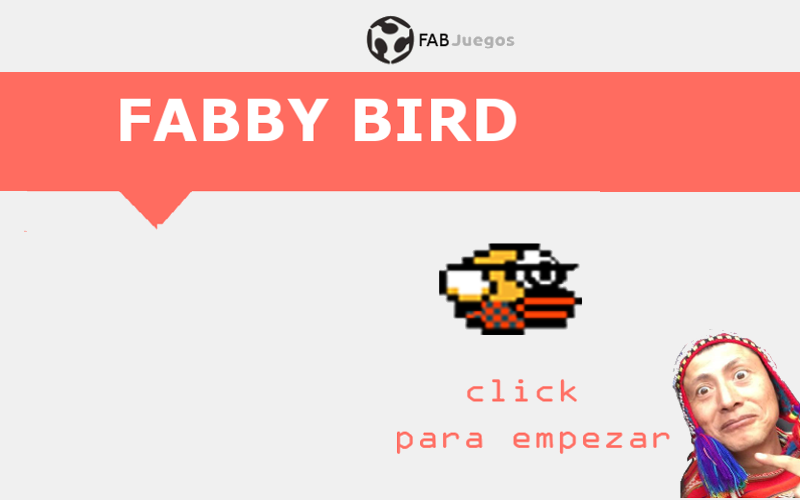
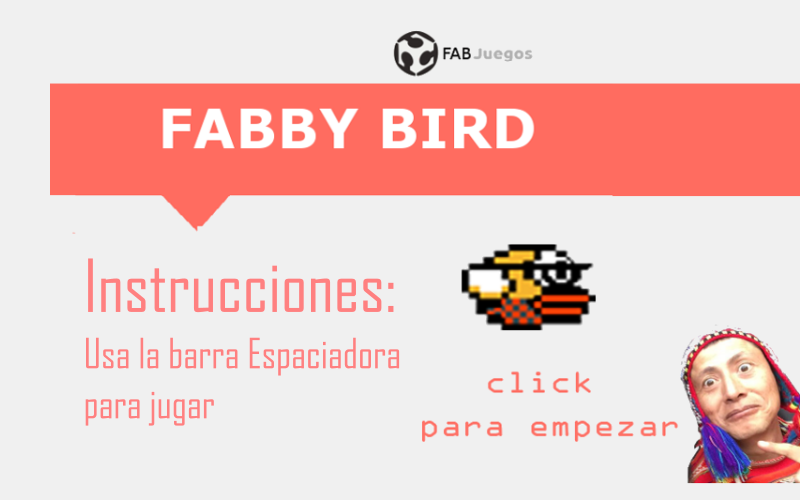
Segunda Version Flappy
En esta ocasión hemos agregado un par de vidas, las colisiones se mejoraron y se explica el juego que es por barras

diff --git a/aves.js b/aves.js
@@ -3,13 +3,29 @@ function Aves(){
     this.aleteo=-3;
     this.gravedad=0.3;
     this.fondo;
+    this.vida1;
+    this.vida2;
+    this.vida3;
+    this.dead1;
+    this.dead2;
+    this.dead3;
+    //Mejoras de la vida
+    this.vida=3;
+    
     this.crear=function(){
-        this.ave=createSprite(width/2,height/2);
-        this.ave.addAnimation("ave", "./imagenes/flappy0.png","./imagenes/flappy1.png","./imagenes/flappy2.png");
+        this.ave=createSprite(width/2,height/2,40,40);
+       this.ave.addAnimation("ave", "./imagenes/flappy0.png","./imagenes/flappy1.png","./imagenes/flappy2.png");
         this.fondo=loadImage("./imagenes/jungla.png");
+        this.vida1=loadImage("./imagenes/life1.png");
+        this.vida2=loadImage("./imagenes/life2.png");
+        this.vida3=loadImage("./imagenes/life3.png");
+        this.dead1=loadImage("./imagenes/dead1.png");
+        this.dead2=loadImage("./imagenes/dead2.png");
+        this.dead3=loadImage("./imagenes/dead3.png");
         this.ave.rotateToDirection=true;
        
-        this.ave.setCollider("circle",0,0,10);
+        this.ave.setCollider("circle",0,0,15);
+        //this.ave.debug=true;//podemos ver el collider
     }
 
     this.movimiento=function(){
@@ -21,14 +37,30 @@ function Aves(){
         camera.position.x=width/4+this.ave.position.x;
         camera.off();
         image(this.fondo, 0, 0, width, height);
+        if(this.vida>-24){image(this.vida1,10,10,this.vida1.width,this.vida1.height);}
+        else{image(this.dead1,10,10,this.dead1.width,this.dead1.height);}
+        if(this.vida>-48){image(this.vida2,50,10,this.vida2.width,this.vida2.height);}
+        else{image(this.dead2,50,10,this.dead2.width,this.dead2.height);}
+        if(this.vida>-72){image(this.vida3,90,10,this.vida3.width,this.vida3.height);}
+        else{image(this.dead3,90,10,this.dead3.width,this.dead3.height);}
+        
         camera.on();
     }
 
     this.muerte=function(pipe){
-        if(this.ave.position.y>height-5 || this.ave.overlap(pipe.tuboArray)){
-           juegoTerminado();
+        
+            if(this.ave.position.y>height-5){juegoTerminado();}
+            if(this.ave.overlap(pipe.tuboArray)){
+                this.vida--
+                
+               if(this.vida<-78){
+                    juegoTerminado();
+                }
+            }
+            //console.log(this.vida);
         }
-    }
+        
+    
 
 
 }

diff --git a/tuberias.js b/tuberias.js
@@ -9,26 +9,35 @@ function Tuberias(){
     }
 
     this.crearTubos=function(bird){
-        this.altura=random(10, 250);
-        //la imagen es de 130x770
-        this.alturaImagen=this.imagenTubo.height;
+       
         if(frameCount%60==0){
-            this.tubo=createSprite(bird.ave.position.x+width,this.alturaImagen-this.altura,10,this.altura);
+            this.altura=random(10, 250);
+            //la imagen es de 130x770
+            this.alturaImagen=this.imagenTubo.height;
+            this.tubo=createSprite(bird.ave.position.x+width,this.alturaImagen-this.altura,10,this.imagenTubo.height);//this.altura
+            this.tubo.setCollider("rectangle",0,0,80,this.imagenTubo.height);
             this.tubo.addImage(this.imagenTubo);
+          //  this.tubo.debug=true;
+           // console.log(this.altura);
             this.tuboArray.add(this.tubo);
            if(this.altura<150){
                 var calibracion=70;
                var posiciony=height-this.alturaImagen+calibracion;
           //console.log(posiciony);
-               this.tubo=createSprite(bird.ave.position.x+width,posiciony,10,this.variacion);
+               this.tubo=createSprite(bird.ave.position.x+width,posiciony,10,this.imagenTubo.height);
+               this.tubo.setCollider("rectangle",0,0,80,this.imagenTubo.height);//definimos colliders de las tuberias como parte del algoritmo
+               //this.tubo.debug=true; //observamos el tamaño de los colliders
                this.tubo.mirrorY(-1);
-                this.tubo.addImage(this.imagenTubo);
+              this.tubo.addImage(this.imagenTubo);
                 this.tuboArray.add(this.tubo);
             }
         }
+       // console.log(this.tuboArray.length);
+        
       }
 
     this.muerteTubos=function(bird){
+        
         for(var i=0;i<this.tuboArray.length;i++){
             if(this.tuboArray[i].position.x<bird.ave.position.x-width/2){
                 this.tuboArray[i].remove();

diff --git a/flappy.js b/flappy.js
@@ -8,7 +8,9 @@ var musica;
 function preload(){
     musica=loadSound("flappy.mp3");
 }
-
+//revisar la musica
+//agregar puntajes
+//agregar instrucciones.
 function setup(){
     createCanvas(800, 500);
     bird= new Aves();
@@ -26,20 +28,22 @@ function setup(){
 
 
 function draw(){
-   musical();
+  
     if(gameOver==true){
         background(255);
         image(imagenFondo,bird.ave.position.x-calibrador, 0, 800, 500);
         start.mousePressed(newGame);
-        
+        musica.stop();
     }
     if(gameOver==false){
-       
-        bird.movimiento();
+        calibrador=380;
         pipe.crearTubos(bird);
         pipe.muerteTubos(bird);
         bird.muerte(pipe);
+        bird.movimiento();
+       
         drawSprites();
+        if(musica.isPlaying()){}else{musica.play();}
     }
    
 
@@ -56,21 +60,14 @@ function juegoTerminado(){
 };
 
 function newGame(){
-   
+    
     pipe.tuboArray.removeSprites();
     gameOver=false;
+    bird.vida=3;
     updateSprites(true);
     bird.ave.position.x=width/2;
     bird.ave.position.y=height/2;
     bird.ave.velocity.y=0;
     
     start.hide();
-}
-function musical(){
-    if(gameOver==true){musica.stop();}
-    if(gameOver==false){
-        if(musica.isPlaying()){
-
-        }else{musica.play();}
-        }
 }
